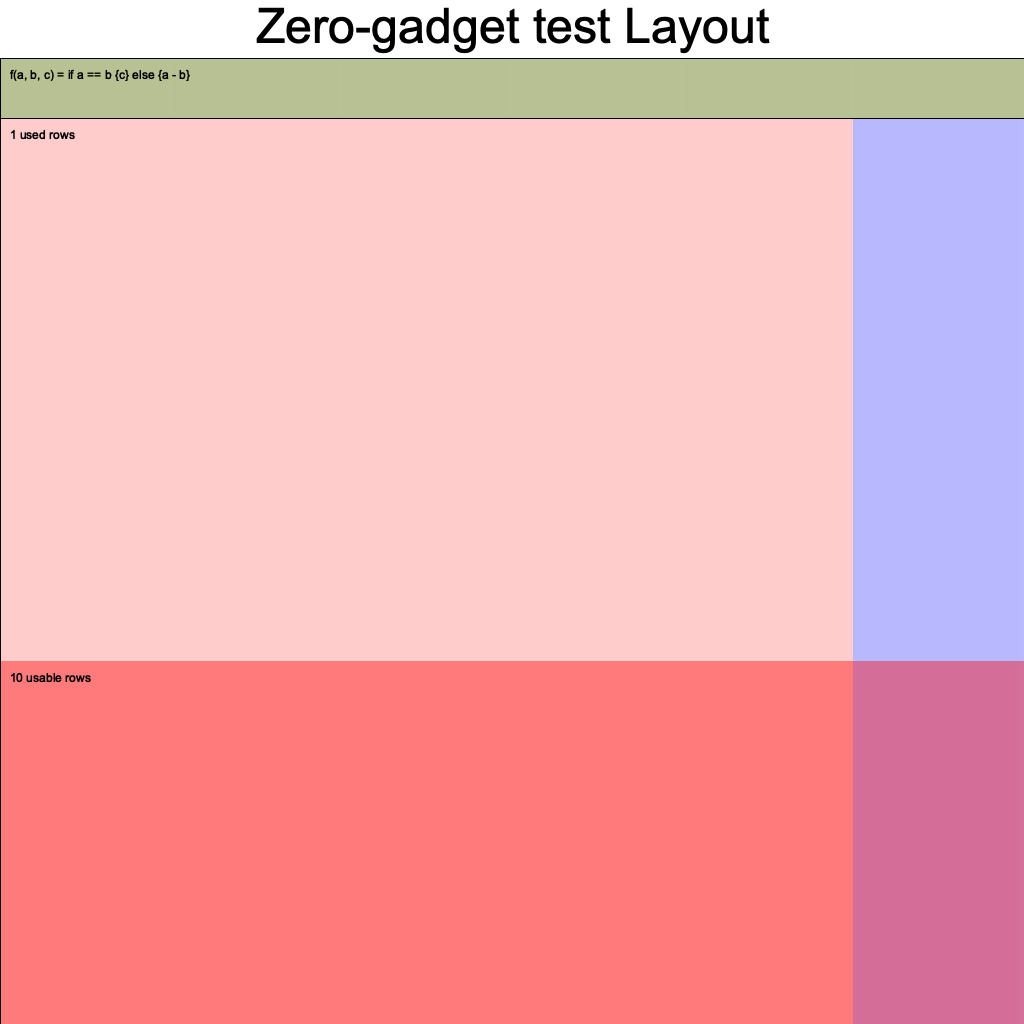
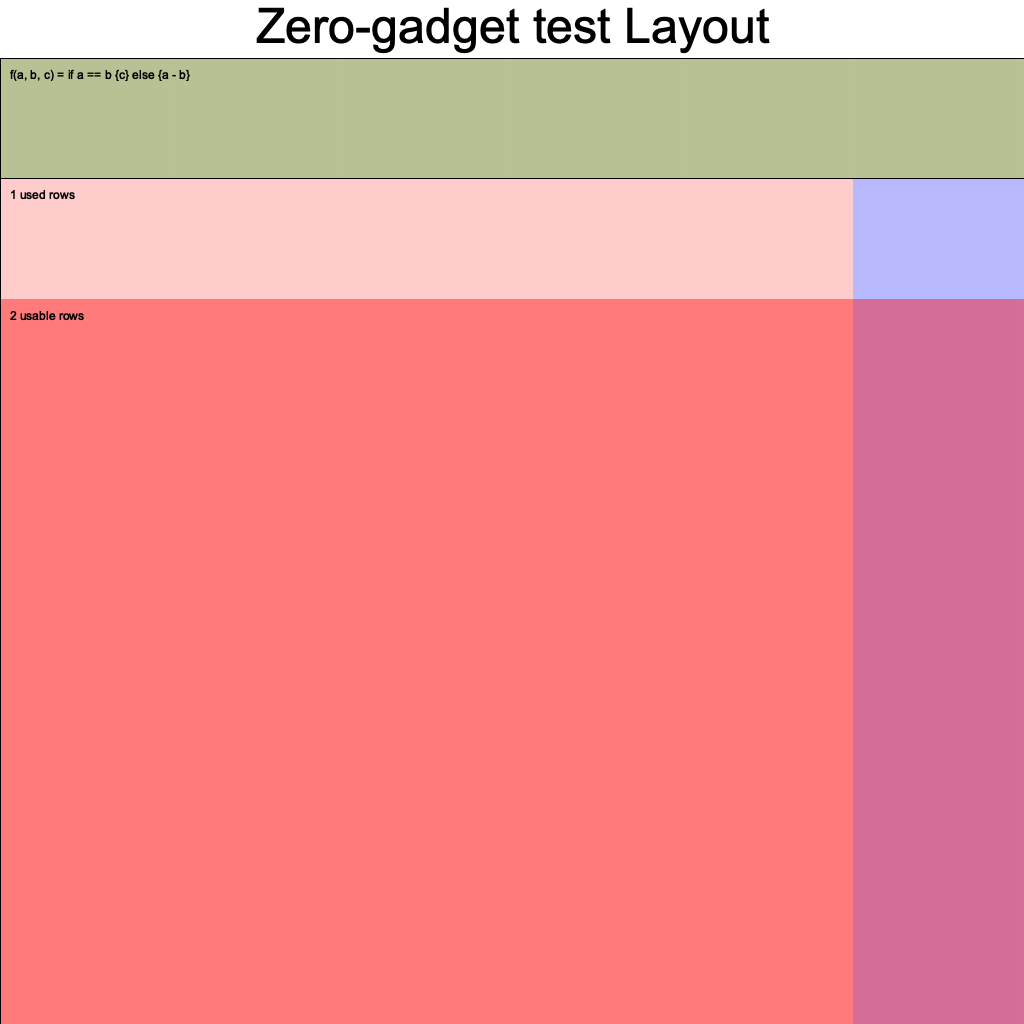
Update the k from 4 to 3

diff --git a/src/main.rs b/src/main.rs
@@ -128,7 +128,7 @@ impl<F: FieldExt> Circuit<F> for CustomCircuit<F> {
 }
 
 fn main() {
-    let k = 4;
+    let k = 3;
 
     let circuit = CustomCircuit {
         a: F::from(10),
